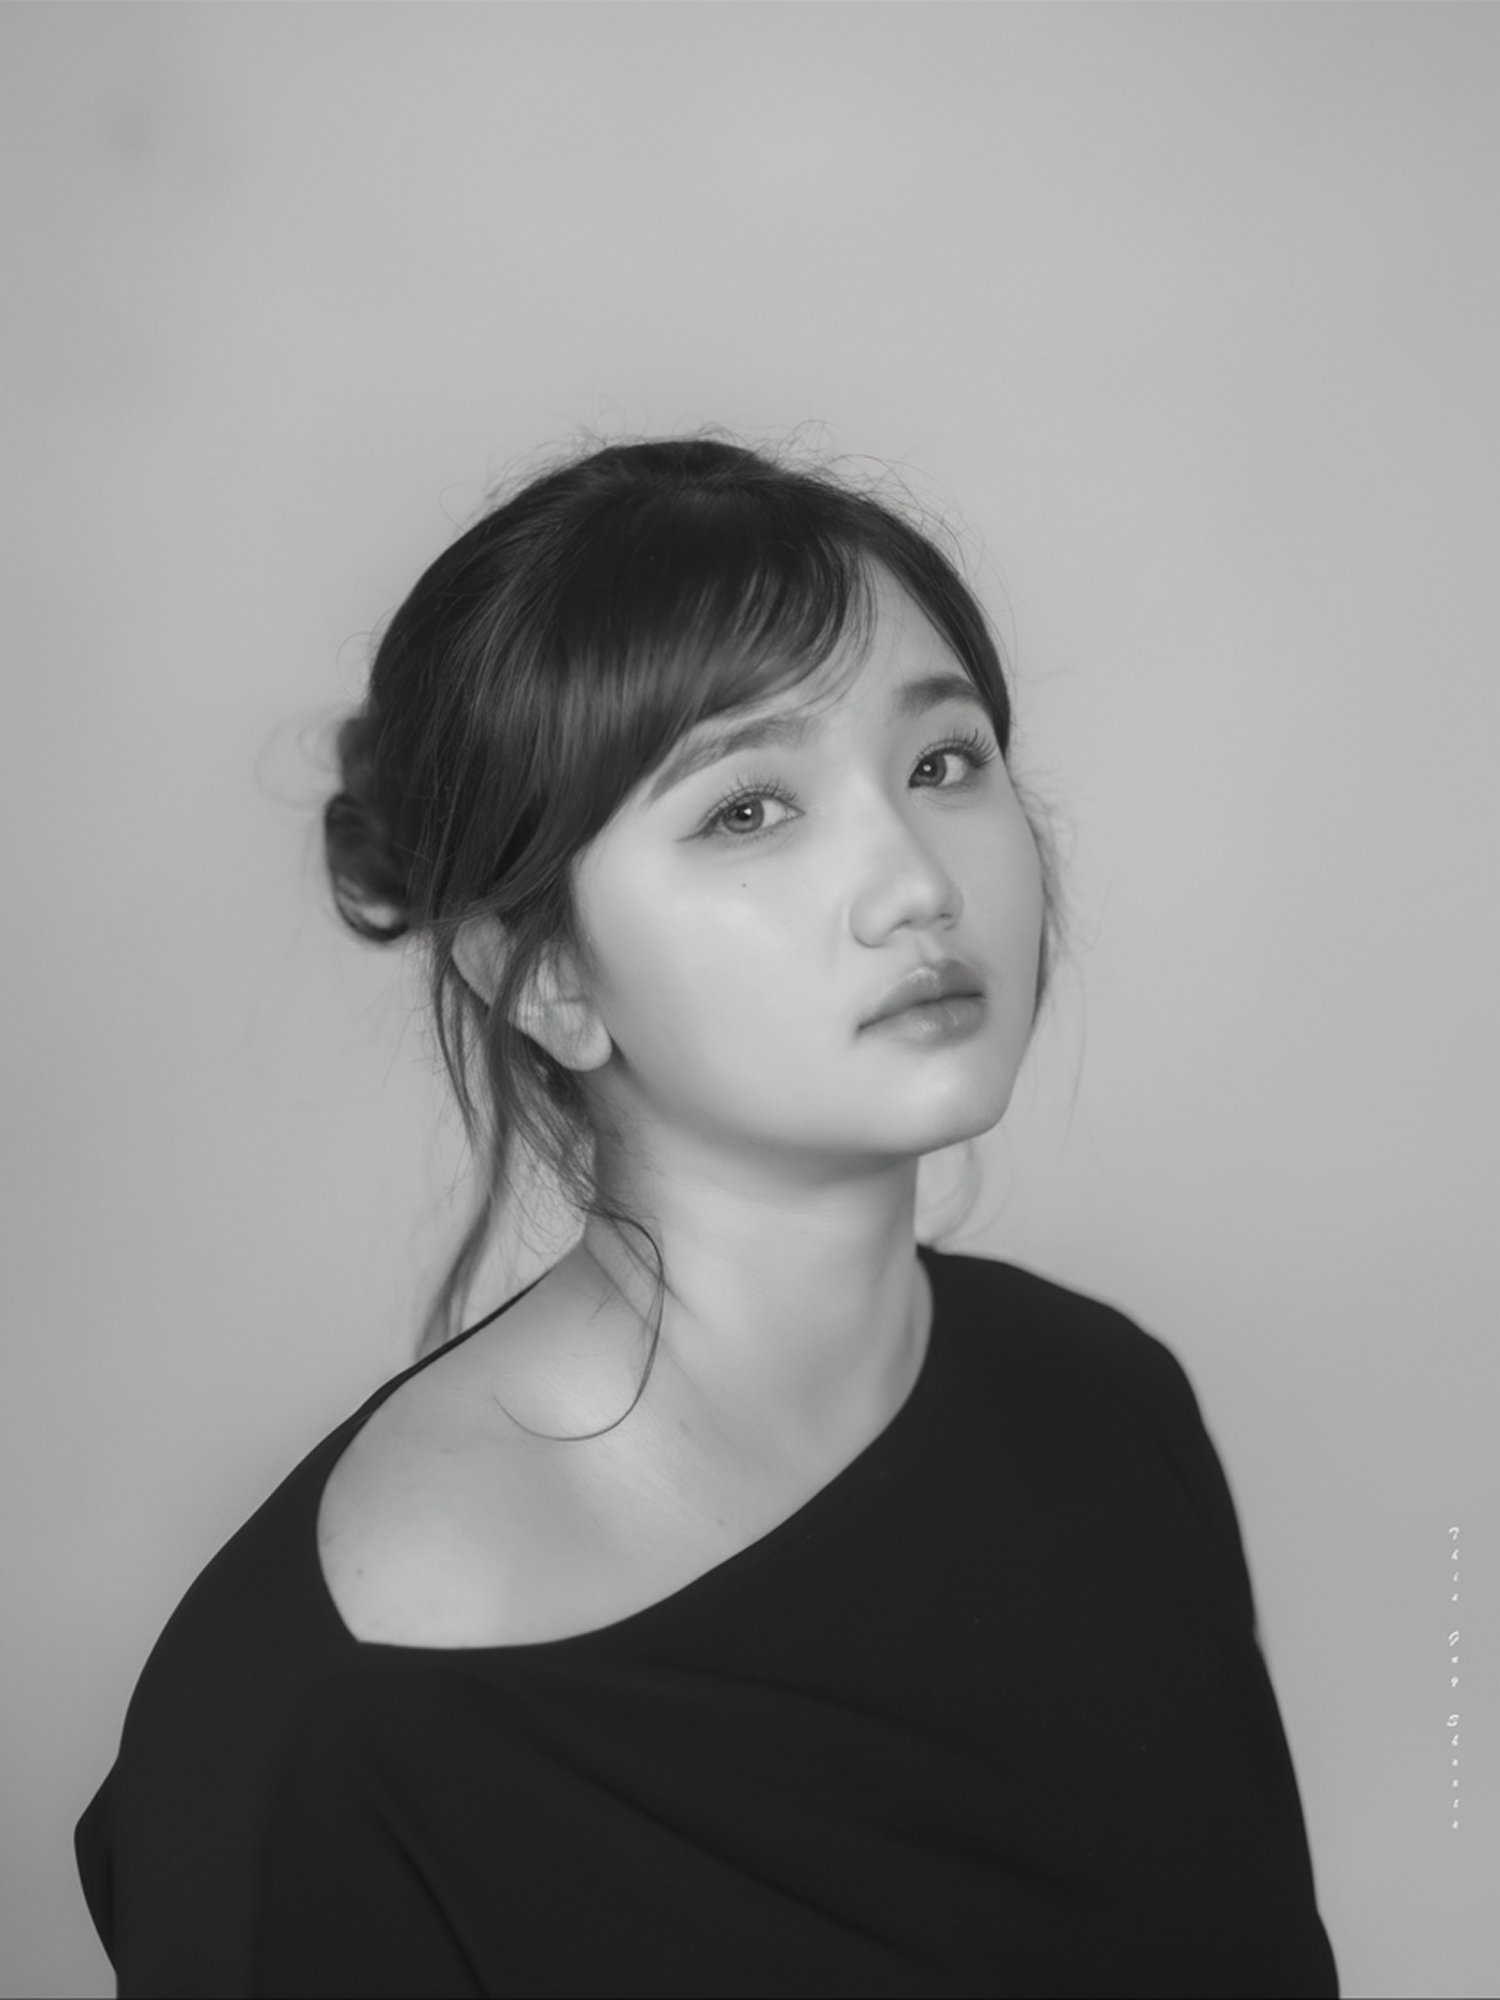
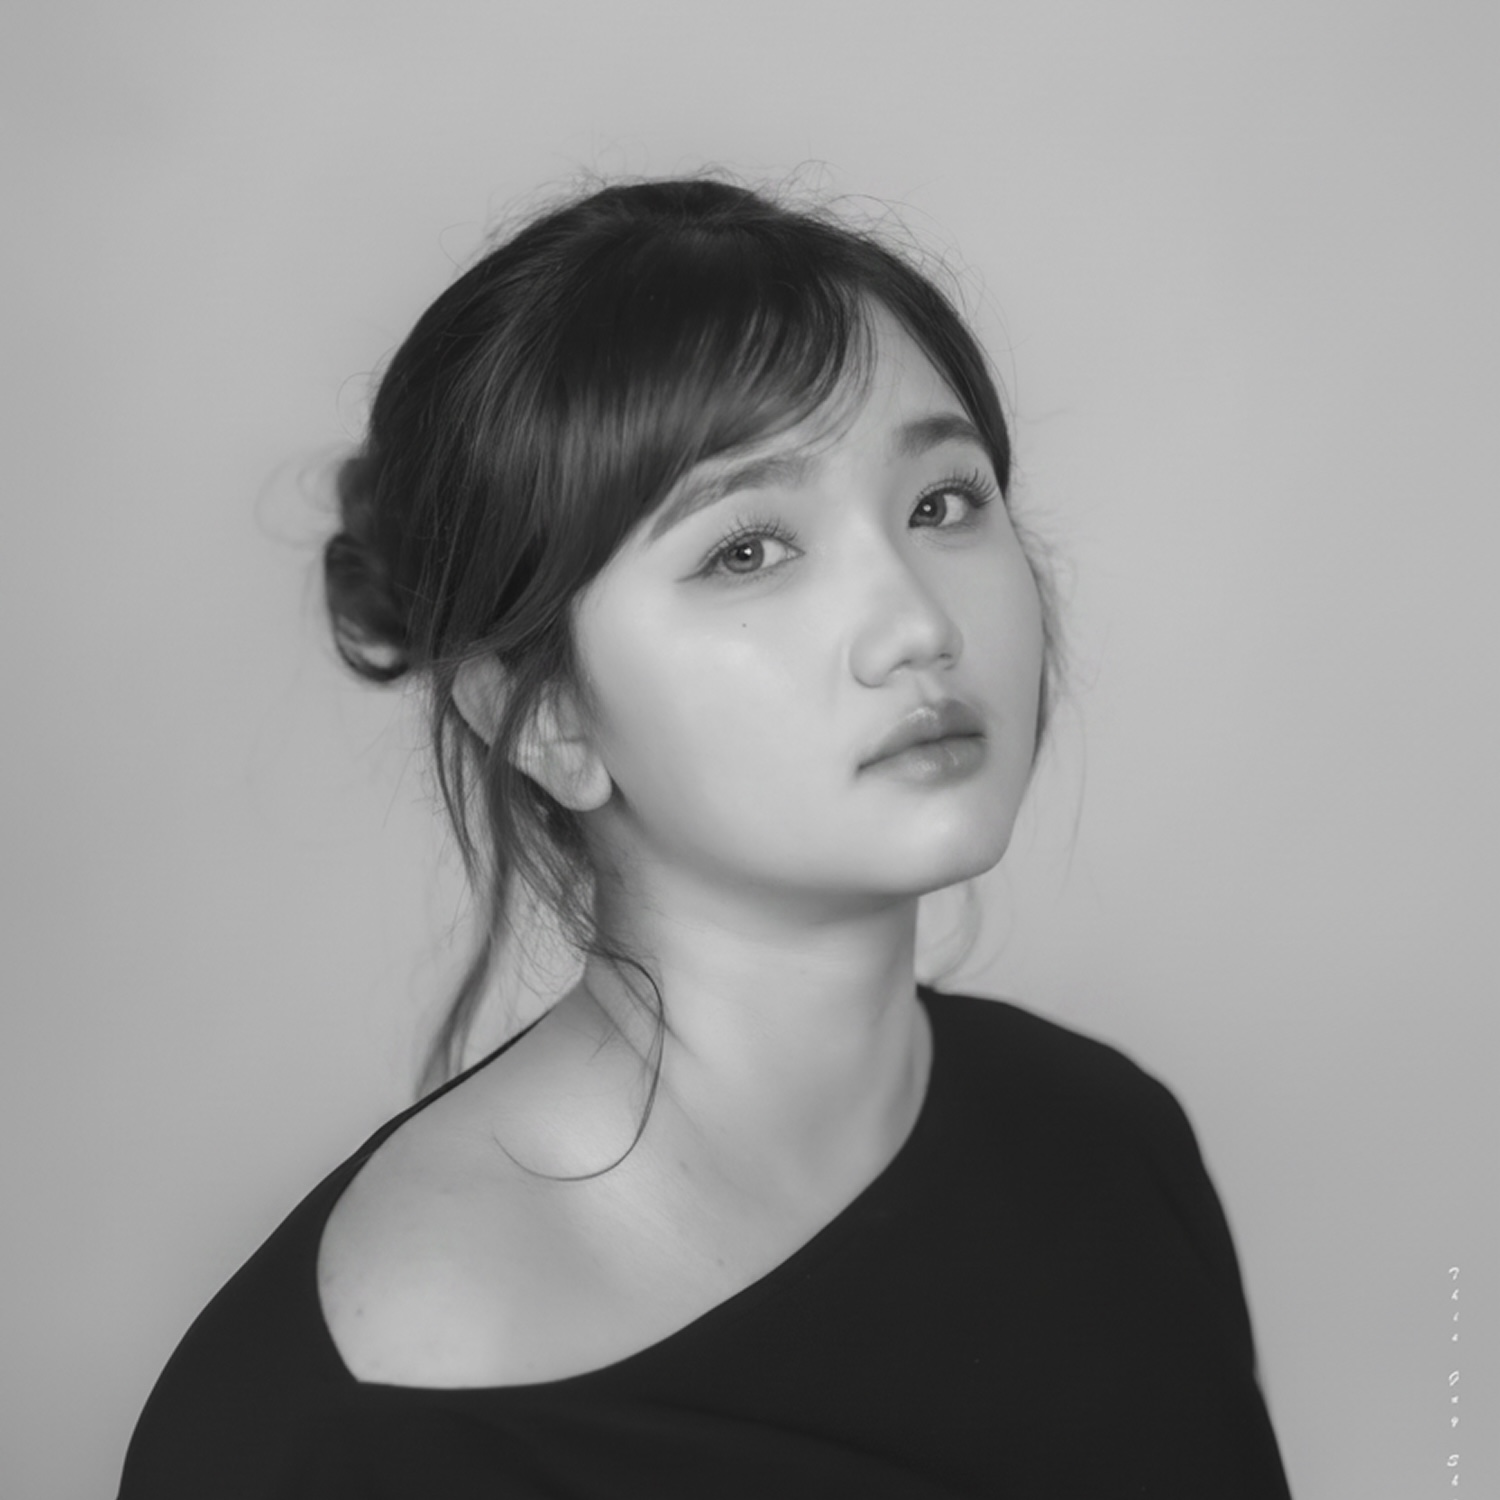
feat: update speaker profiles and adjust speaker count display

Changed region(s): [[0.0307, 0.092, 0.92, 1.0], [0.9507, 0.9813, 0.9813, 1.0]]

diff --git a/data/speakersData.ts b/data/speakersData.ts
@@ -7,7 +7,7 @@ import AungMinSoePhoto from '@/app/assets/Persons/Speakers/69ff9fa3-b1cf-4cfe-9c
 import AikoHuangPhoto from '@/app/assets/Persons/Speakers/1784143360016 - Aiko Huang.webp'
 import MinKhantPhoto from '@/app/assets/Persons/Speakers/Image MK - Alean Mk.webp'
 import KayPhoto from '@/app/assets/Persons/Speakers/0810_Kay6359_resized - Khin Moet Moet Nyein (Kay).webp'
-import PyitSoneOoPhoto from '@/app/assets/Persons/Speakers/Profile Pyit - Pyit Sone Oo.webp'
+import PyitSoneOoPhoto from '@/app/assets/Persons/Speakers/Pyit Sone Oo.png'
 import ShuMawaSoePhoto from '@/app/assets/Persons/Speakers/Shu Soe Profile Pic 2026 - Shu Mawa Soe.webp'
 import AungKoKoThetPhoto from '@/app/assets/Persons/Speakers/Aung Ko Ko Thet.webp'
 import KyawMyoThetPhoto from '@/app/assets/Persons/Speakers/Kyaw Myo Thet.webp'
@@ -15,7 +15,7 @@ import MyaThandarOoPhoto from '@/app/assets/Persons/Speakers/Mya Thandar Oo.webp
 import WaiYiMonSoePhoto from '@/app/assets/Persons/Speakers/Wai Yi Mon Soe 2025 - Phyo Thiri Thu.webp'
 import HendraPhoto from '@/app/assets/Persons/Speakers/Hendra.webp'
 import EricGloverPhoto from '@/app/assets/Persons/Speakers/Eric Glover - Phyo Thiri Thu.webp'
-import SittYeYintTunPhoto from '@/app/assets/Persons/Speakers/Sitt Ye Yint Tun - Sittye Yint Tun.webp'
+import SittYeYintTunPhoto from '@/app/assets/Persons/Speakers/Sitt Ye Yint Tun.png'
 import KyisinHsutharPhoto from '@/app/assets/Persons/Kyisin Hsuthar.jpeg'
 import SannLynnHtunPhoto from '@/app/assets/Persons/Sann Lynn Htun.jpg'
 import HaymarAungPhoto from '@/app/assets/Persons/Haymar Aung.jpeg'
@@ -69,7 +69,7 @@ export const speakers: Speaker[] = [
     id: 'aung-min-soe',
     day: 1,
     name: 'AUNG MIN SOE ( Kinn )',
-    position: 'Lead Product Designer',
+    position: 'Lead UI/UX Designer',
     organization: 'Klink Enterprise Solution',
     bio: 'Aung Min Soe (Kinn) is a Lead Product Designer with 8+ years of experience across Fintech, Enterprise SaaS, EdTech, and AI-powered products. He specializes in product design, scalable design systems, conversational UX, and bridging the gap between design and development. His recent work focuses on AI-assisted product experiences, workflow automation, and design-to-code practices that help teams move from ideas to production more effectively.',
     photo: AungMinSoePhoto,
@@ -114,7 +114,7 @@ export const speakers: Speaker[] = [
     id: 'shu-mawa-soe',
     day: 2,
     name: 'Shu Mawa Soe',
-    position: 'Executive UXUI Specialist',
+    position: 'Product Designer',
     organization: 'AYA Innovation Lab',
     bio: 'Shu is an AI-driven product designer specializing in humanizing complex systems. She received her MSc in HCI at the University of St Andrews and is now currently consulting for an AI SaaS startup. Shu’s core mission is to drive human-centered design by grounding product decisions in actual research and proven models. Her specialty is bringing soul back into digital experiences to avoid AI slop by centering real user needs and accessibility.',
     photo: ShuMawaSoePhoto,
@@ -123,8 +123,8 @@ export const speakers: Speaker[] = [
     id: 'aung-ko-ko-thet',
     day: 2,
     name: 'Aung Ko Ko Thet',
-    position: 'Founder, Solution Architect',
-    organization: 'Magixx Genesis Value Network',
+    position: 'Founder',
+    organization: 'Flutter Builder Professional Industry Program',
     bio: 'Aung Ko Ko Thet is a technology professional and the Myanmar Chapter Representative of theBuilderPros network, passionate about helping developers take the leap from learning to actually building. Through the Flutter Builder Professional Industry Program, he creates opportunities for developers to gain hands-on production experience, learn through real feedback and collaboration, and build evidence of what they can truly contribute. His work sits at the intersection of technology, professional learning, and industry readiness—helping developers turn skills into real-world capability.',
     photo: AungKoKoThetPhoto,
   },
@@ -141,7 +141,7 @@ export const speakers: Speaker[] = [
     id: 'mya-thandar-oo',
     day: 2,
     name: 'Mya Thandar Oo',
-    position: 'Chief Marketing Officer',
+    position: 'Chairwoman & Chief Marketing Officer',
     organization: 'MyJobs',
     bio: 'Mya Thandar Oo is a business leader and Chairwoman & Chief Business Officer of MyJobs Myanmar, with extensive experience spanning recruitment, workforce development, and talent intelligence. She works at the intersection of people, business, and the future of work, helping organizations navigate evolving talent needs while contributing to skills development and employment opportunities in Myanmar. With a deep understanding of the local workforce landscape, she brings valuable insights into what employers really look for, how professionals can stay relevant in a changing market, and how to build careers with long-term value.',
     photo: MyaThandarOoPhoto,

diff --git a/components/landing/BentoSection.tsx b/components/landing/BentoSection.tsx
@@ -204,7 +204,7 @@ export function BentoSection() {
               </p>
               <p className="font-dela-gothic-one text-2xl md:text-3xl text-white tracking-wide">
                 Speakers<br />
-                <span className="text-5xl">+++</span>
+                <span className="text-5xl">9+</span>
               </p>
               <Image src={logo} alt="Event icon" width={48} height={48} className="absolute -bottom-2 -right-2 object-contain w-12 h-12" />
             </div>
